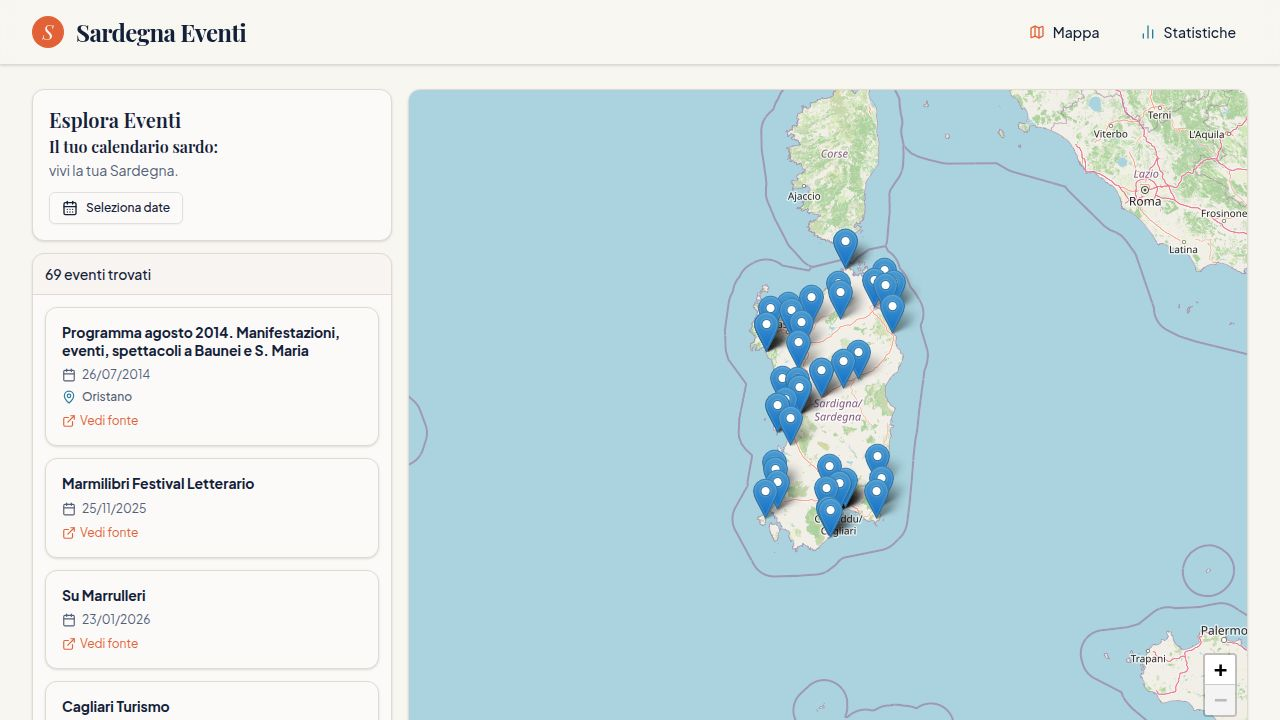
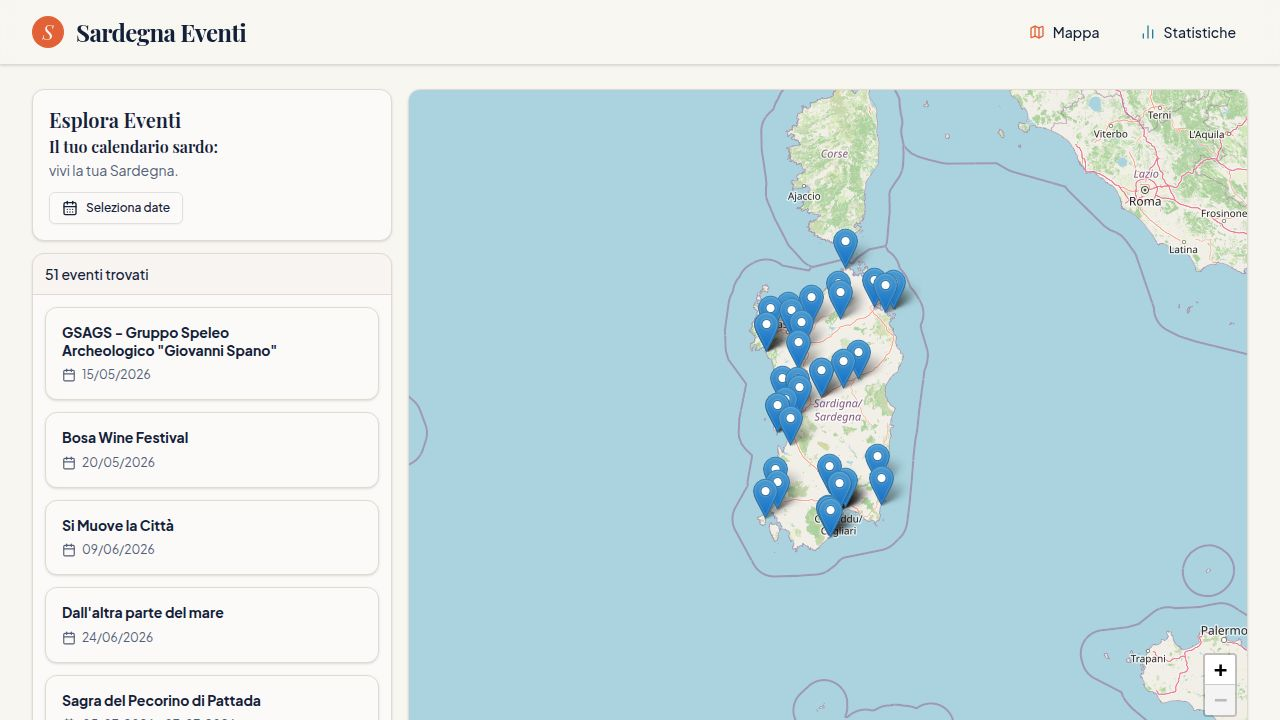
Remove filtering of past events from the main event list
Adjusted the event filtering logic to remove the automatic exclusion of past events from the main event list, ensuring all events are displayed by default.

Replit-Commit-Author: Agent
Replit-Commit-Session-Id: 49d021ff-8844-4855-b402-ac8b51a79f95
Replit-Commit-Checkpoint-Type: full_checkpoint
Replit-Commit-Event-Id: 17c36995-ad22-4fdb-a9a9-303de2d15f53
Replit-Commit-Screenshot-Url: https://storage.googleapis.com/screenshot-production-us-central1/b1922a3b-1388-4228-9fb0-a4b1bf519dd3/49d021ff-8844-4855-b402-ac8b51a79f95/wiSo2oP
Replit-Helium-Checkpoint-Created: true

diff --git a/artifacts/sardegna-map/src/hooks/use-events-filter.ts b/artifacts/sardegna-map/src/hooks/use-events-filter.ts
@@ -7,28 +7,12 @@ export function useEventsFilter(events: Event[] = []) {
   const [dateRange, setDateRange] = useState<DateRange | undefined>(undefined);
 
   const filteredEvents = useMemo(() => {
-    const todayStr = new Date().toLocaleDateString("en-CA");
-
-    // Filter out past events that are NOT festivals
-    const baseList = events.filter((evt) => {
-      const isPast = evt.data_fine
-        ? evt.data_fine < todayStr
-        : (evt.data_inizio ? evt.data_inizio < todayStr : false);
-
-      if (isPast) {
-        // Keep only if it is a festival (has children connected to it)
-        const hasChildren = events.some((e) => e.parent_id === evt.id);
-        return hasChildren;
-      }
-      return true;
-    });
-
-    if (!dateRange?.from) return baseList;
+    if (!dateRange?.from) return events;
 
     const from = startOfDay(dateRange.from);
     const to = dateRange.to ? endOfDay(dateRange.to) : endOfDay(dateRange.from);
 
-    return baseList.filter((evt) => {
+    return events.filter((evt) => {
       if (!evt.data_inizio) return true;
       const evtStart = parseISO(evt.data_inizio);
       const evtEnd = evt.data_fine ? parseISO(evt.data_fine) : evtStart;